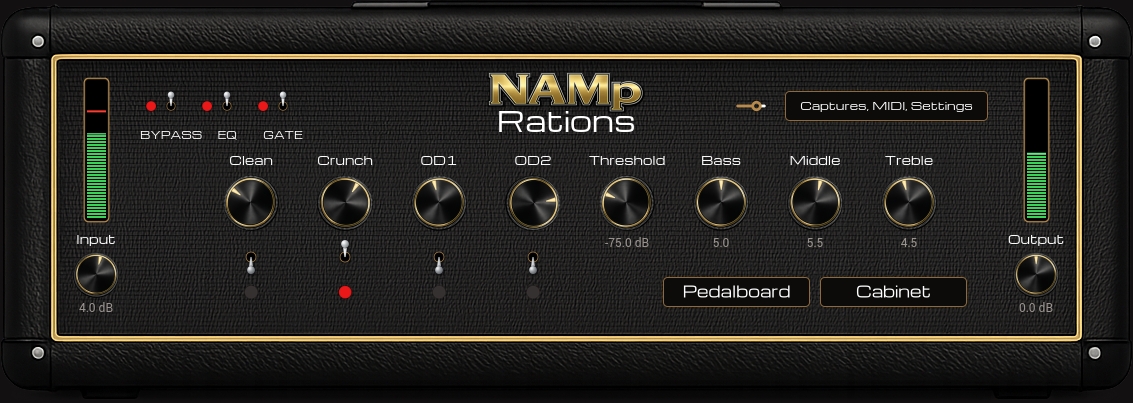
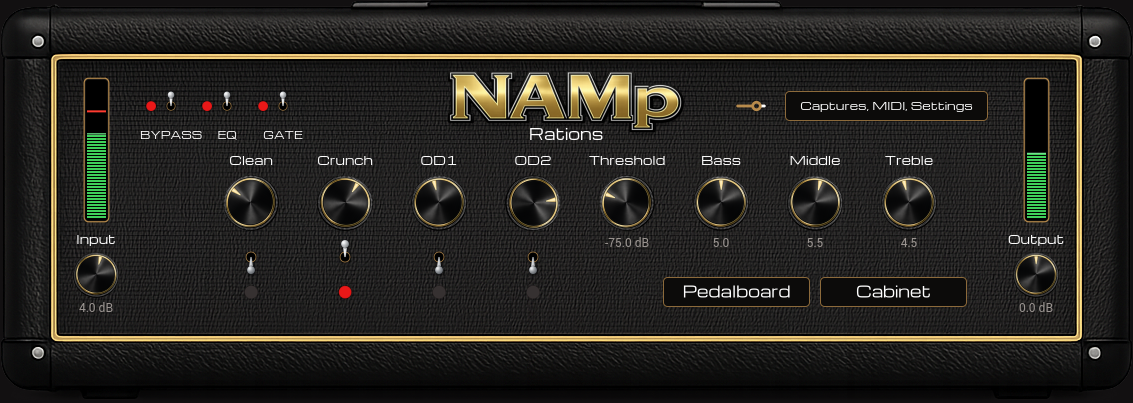
Rebalance the wordmark: a bigger badge, a word that outranks the dial legends
The stack shipped at kBadgeH 48 with kTitleSize 28 — a badge and a word of
comparable weight — and the badge is what actually carries at a glance, so on
the author's call the two traded. Over-correcting first (88 and 12) showed where
the floor is: at 12 the word was SMALLER than the dial legends beneath it and
read as a stray caption between the mark and the panel rather than as part of
either. 72 and 15 is what was kept. The word is now one cap-even step ABOVE
kKnobLabelSize (13 and 14 are stepped sizes, so 15 is the next one available),
which is what makes it read as the mark's own second line.

The tuck is measured off the art rather than eyeballed. The word's cap top sits
level with where the badge's ink ends UNDER ITS CENTRE — 0.836 of the art's
height, against the 0.961 its full ink box gives; the difference is "NAMp"'s p,
which hangs lower and does so off to the right, either side of which "Rations"
is narrow enough to clear. kBadgeTop comes up to 68 so the gold starts 8.8 below
the faceplate's edge, matching the meters' own margin once the art's 2.8 units of
transparent top border are counted.

Width stops being the constraint: 242 against the 316 the Slim icon's clearance
allows, so nothing in the corner moved and D24's mirror is untouched. The band is
what binds, and the word's baseline is 13 clear of the dial legends' ink.

The icon does NOT follow, and that is deliberate — its split was always its own,
[…]

Changed region(s): [[0.3707, 0.1787, 0.6178, 0.3573]]

diff --git a/src/geometry.h b/src/geometry.h
@@ -262,7 +262,7 @@ constexpr int pageMaxH(Page p)
 // 15 logical px is 15*s device px, and an intermediate window size can still
 // land on a stepped value. Being even at the sizes the window actually rests at
 // is what is available; being even everywhere is not.
-constexpr int kTitleSize = 28; // "Rations", under the badge — see the wordmark block
+constexpr int kTitleSize = 15; // "Rations", under the badge — see the wordmark block
 // The dial legends and the utility row's, both one step down the cap-even list
 // (15 -> 12 and 11 -> 10; 13 and 14 are not available, see the note above).
 // They came down when the channel lamps moved out of the band above the dials
@@ -312,27 +312,46 @@ using pal::kTextColor;
 //
 // THE VERTICAL BAND IS THE BUDGET HERE, not the width — which is the reverse of
 // how this band has always worked, and is why nothing else on it had to move.
-// Stacked, the block is max(badge, text) wide rather than their sum: 162
-// against the 318 the wordmark had, so it is NARROWER than the text it
-// replaces and the utility row, the Slim icon and the settings button all keep
-// the positions they were measured into. What it spends instead is height,
-// between the faceplate's top edge (kFaceT, 62) and the dial legends' ink
-// (kKnobCY - kKnobLabelDY - kKnobLabelSize, 153). The asserts below hold both
-// ends, and panelrender measures the text for real.
-constexpr int kBadgeH = 48;
+// Stacked, the block is max(badge, text) wide rather than their sum, so what it
+// spends is height, between the faceplate's top edge (kFaceT, 62) and the dial
+// legends' ink (kKnobCY - kKnobLabelDY - kKnobLabelSize, 153). The asserts
+// below hold both ends, and panelrender measures the text for real.
+//
+// THE BADGE IS THE MARK AND THE WORD IS THE CAPTION, and the balance between
+// them is the author's, settled by looking at three renders rather than by
+// arithmetic. It first drew at 48 with the word at 28 — a badge and a word of
+// comparable weight, where the badge is what actually carries at a glance — and
+// then over-corrected to 88 with the word at 12, where the word was smaller than
+// the dial legends under it and read as a stray caption. 72 and 15 is the pair
+// that was kept: the badge dominates, and the word is a step LARGER than the
+// dial legends (kKnobLabelSize, 12) so that it reads as part of the mark rather
+// than as another legend. 15 is the next cap-even size above 12 — 13 and 14 are
+// stepped, see the note above kTitleSize.
+//
+// The band, not the width, is what bounds it: at this aspect 72 draws 242 wide
+// against the 316 the Slim icon's clearance (asserted below) would allow, while
+// the word's baseline is 13 clear of the dial legends' ink.
+constexpr int kBadgeH = 72;
 // The stored art is 512x152 (gui/geometry.sh BADGE_W/H, checked there against
 // what the source actually trims to), so the drawn width is that aspect at
 // kBadgeH. Written as the arithmetic rather than as 162 so that replacing the
 // art and updating geometry.sh cannot leave this silently stretched.
-constexpr int kBadgeW = kBadgeH * 512 / 152; // 161
-constexpr int kBadgeTop = 70;                // 8 below kFaceT, the meters' own margin
+constexpr int kBadgeW = kBadgeH * 512 / 152; // 242
+// 6 below kFaceT, and the ink starts lower again: the art carries 6/152 of its
+// height as transparent margin above it, which is 2.8 units here, so the gold
+// begins 8.8 below the faceplate's edge — close to the meters' own 8.
+constexpr int kBadgeTop = 68;
 constexpr int kBadgeBottom = kBadgeTop + kBadgeH;
 constexpr int kBadgeCX = kFaceCX;
-// The word's baseline. Its cap top (kTitleBaselineY - the cap height, ~20 at
-// this size) sits ABOVE kBadgeBottom, which is the tuck that makes the two one
-// mark: "NAMp"'s p hangs into the space either side of which "Rations" is
-// narrow enough to clear.
-constexpr int kTitleBaselineY = 132;
+// The word's baseline. Its cap top (kTitleBaselineY - the cap height, ~11 at
+// this size) sits level with where the badge's ink ends UNDER ITS CENTRE, which
+// is 0.836 of the art's height rather than the 0.961 its full ink box gives:
+// the difference is "NAMp"'s p, which hangs lower than the rest and does so off
+// to the right, either side of which "Rations" is narrow enough to clear. That
+// is what makes the two read as one mark rather than as two things stacked, and
+// it is measured off the art (magick -crop the centre third, then %@) rather
+// than eyeballed.
+constexpr int kTitleBaselineY = 140;
 constexpr int kWordmarkBottom = kTitleBaselineY; // "Rations" has no descender
 static_assert(kBadgeTop > kFaceT, "the badge has reached the top of the faceplate");
 // The other end of the band is asserted where the dial legends are defined —
@@ -622,16 +641,16 @@ static_assert(kBypassToggleCY + kTopToggleH / 2 <
 // The title's leftmost ink. This used to be a hand-measured number — the width
 // of "Rations" at 56 — because the title was text and text is only measurable at
 // draw time. It is DERIVED now: the badge is the wider of the two things stacked
-// here (161 against the word's 141 at kTitleSize), so the block's edge is the
+// here (242 against the word's 72 at kTitleSize), so the block's edge is the
 // badge's edge and arithmetic can say where it is. panelrender still measures
 // the text for real, which is what catches the case where a larger kTitleSize
 // makes the word the wider one and this stops being the block's edge.
-constexpr int kWordmarkInkLeft = kFaceCX - kBadgeW / 2; // 486
+constexpr int kWordmarkInkLeft = kFaceCX - kBadgeW / 2; // 445
 static_assert(kGateToggleCX + kTopToggleHitW / 2 < kWordmarkInkLeft,
               "the utility row has grown into the wordmark");
 // The wordmark's ink ends the same distance the other side of the faceplate
 // centre, and the corner cluster is measured against it below.
-constexpr int kWordmarkInkRight = 2 * kFaceCX - kWordmarkInkLeft; // 646
+constexpr int kWordmarkInkRight = 2 * kFaceCX - kWordmarkInkLeft; // 687
 
 // --- The settings button, top-right of the faceplate ------------------------
 // A LABELLED BUTTON, NOT AN ICON, and that is the whole of this decision. It was
